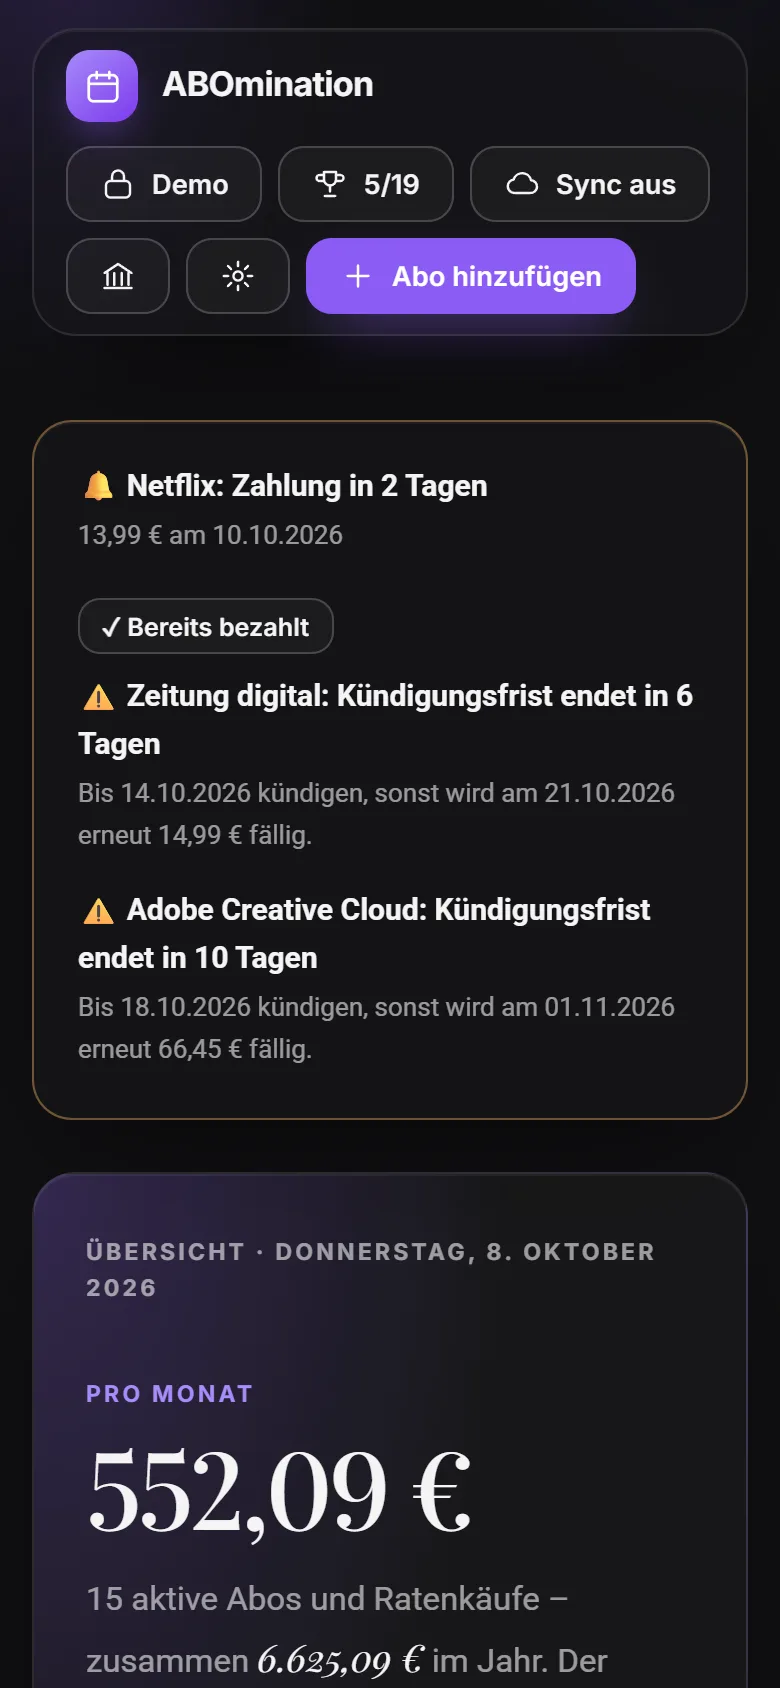
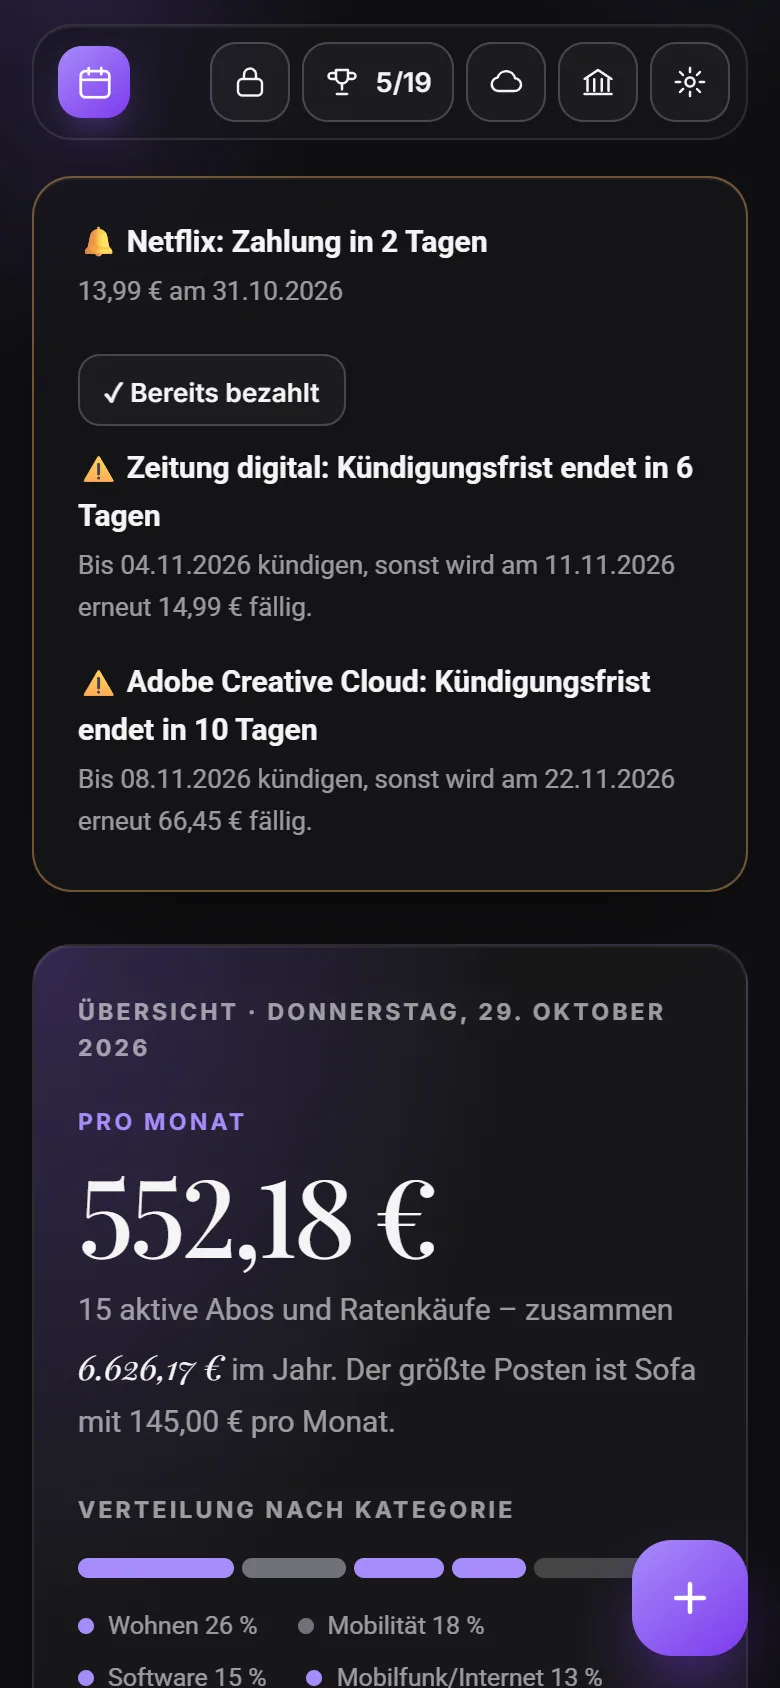
Version 0.5.1: Optimierte Handy-Ansicht
ABOmination ist auf dem Smartphone jetzt deutlich angenehmer zu bedienen:

- Schlanke Kopfzeile mit Symbol-Knöpfen; „Abo hinzufügen“ als schwebender Knopf unten rechts
- „Alle Abos“ als übersichtliche Karten statt einer abgeschnittenen Tabelle – Bearbeiten und Löschen sind immer erreichbar
- Dialoge öffnen als Blatt von unten; Titel und Speichern-Knopf bleiben beim Scrollen sichtbar
- Gehaltsrechner: Netto und „Übrig“ stehen beim Ausfüllen immer unten im Blick
- Kompaktere Kacheln, Zahlungsliste zunächst mit 5 Einträgen, Spartipps und Ratenkauf-Kennzahlen besser lesbar
- Größere Tippflächen; kein automatisches Hineinzoomen in Eingabefelder auf dem iPhone

diff --git a/web/src/styles.css b/web/src/styles.css
@@ -267,7 +267,7 @@ input[readonly]{opacity:.75;cursor:default}
 .t-inst{grid-column:span 12}
 .t-salary{grid-column:span 12}
 @media (max-width:1000px){
-  .t-hero,.t-cats,.t-accts,.t-opt,.t-ach{grid-column:span 12;grid-row:auto}
+  .t-hero,.t-hero.tall,.t-cats,.t-accts,.t-opt,.t-ach{grid-column:span 12;grid-row:auto}
   .t-year,.t-30,.t-open{grid-column:span 6}
   .t-hero{min-height:0}
 }
@@ -420,3 +420,112 @@ form.sal label.check{flex-direction:row;align-items:center;gap:8px;color:var(--t
 @media (max-width:1000px){.sal-kpis{grid-template-columns:repeat(2,minmax(0,1fr))}}
 @media (max-width:760px){.sal-grid{grid-template-columns:1fr}.sal-out{position:static}}
 @media (max-width:480px){.sal-row{grid-template-columns:1fr}}
+
+/* ============ Handy-Ansicht (bis 640 px) ============ */
+.fab,.up-toggle,.sal-sum{display:none}
+@media (max-width:640px){
+  /* Kopfzeile: eine schlanke Zeile mit Symbol-Knöpfen; „Abo hinzufügen“ wird zum schwebenden Knopf */
+  .nav{top:8px;gap:8px;padding:8px 8px 8px 12px;margin-bottom:18px;border-radius:20px;flex-wrap:nowrap}
+  .nav .actions{flex-wrap:nowrap;gap:6px}
+  .nav .btn{min-height:40px;min-width:40px;padding:8px 10px}
+  .nav .lbl-m{display:none}
+  .nav .add-desk{display:none}
+  .brand{font-size:16px;gap:10px;min-width:0}
+  .fab{display:grid;place-items:center;position:fixed;z-index:70;right:max(16px,env(safe-area-inset-right));bottom:calc(16px + env(safe-area-inset-bottom));
+    width:58px;height:58px;border-radius:20px;border:0;color:#fff;background:linear-gradient(140deg,#a78bfa,#7c3aed);cursor:pointer;
+    box-shadow:0 16px 36px -10px rgba(124,58,237,.75)}
+  .fab svg{width:24px;height:24px;stroke-width:2.2}
+  .fab:active{transform:scale(.94)}
+  .wrap{padding-bottom:calc(96px + env(safe-area-inset-bottom))}
+  .toast-wrap{bottom:calc(90px + env(safe-area-inset-bottom))}
+
+  /* Eingabefelder mit 16 px: sonst zoomt iOS beim Antippen hinein */
+  input,select,textarea{font-size:16px}
+  .btn{min-height:40px}
+  .btn.small{min-height:36px;padding:7px 12px;font-size:13px}
+  .seg{padding:7px 13px}
+  .acct-name{padding:6px 0}
+  input[type=range]{height:28px}
+
+  /* Kacheln kompakter */
+  .bento{gap:12px;margin-bottom:56px}
+  .card,.tile{padding:20px;border-radius:20px}
+  .tile-head{margin-bottom:16px;gap:10px}
+  .tile-head h2{font-size:15px}
+  .t-hero{padding:24px 22px 22px;gap:22px}
+  .t-hero .mix{margin:0}
+  .t-hero .lede{margin-bottom:0}
+  .t-hero .eyebrow[style]{margin-top:18px!important}
+  .lede{font-size:15px;margin:10px 0 0}
+  .iboxes{gap:8px}
+  .ibox{padding:10px 12px;border-radius:14px}
+  .t-year,.t-30{grid-column:span 6}
+  .t-open{grid-column:span 12}
+  .t-year,.t-30,.t-open{gap:10px}
+  .t-year .num-serif,.t-30 .num-serif,.t-open .num-serif{font-size:clamp(24px,7.4vw,34px)}
+  .t-year .ic-c,.t-30 .ic-c,.t-open .ic-c{display:none}
+  .t-salary .tile-head .sub{display:none}
+  .t-salary .tile-head .btn{margin-left:auto}
+  .sal-kpis{gap:14px 18px}
+  .sal-kpis .num-serif{font-size:clamp(22px,6.6vw,30px);margin-top:6px}
+  .sal-bar{margin:18px 0 12px}
+
+  /* Zahlungsliste: erst 5, Rest per Knopf */
+  #upcoming{margin-top:16px}
+  #upcoming:not(.all) .up.more{display:none}
+  #upcoming .up:nth-child(5){border-bottom:0}
+  #upcoming.all .up:nth-child(5){border-bottom:1px solid var(--line)}
+  .up-toggle{display:inline-flex;margin-top:10px;grid-column:1/-1;justify-self:start}
+
+  /* Spartipps: Ersparnis unter den Text statt daneben */
+  .tip{flex-direction:column;gap:4px;padding:14px 0}
+
+  /* Liste „Alle Abos“ als Karten statt Tabelle */
+  .section-head .h-display{margin-bottom:18px}
+  .table-card{padding:16px 18px}
+  .toolbar{display:grid;grid-template-columns:1fr 1fr;gap:8px}
+  .toolbar input{grid-column:1/-1;min-width:0;width:100%}
+  .toolbar select{width:100%;min-width:0}
+  .table-card thead{display:none}
+  #rows tr{display:grid;grid-template-columns:minmax(0,1fr) auto;grid-template-areas:"name price" "next actions";gap:8px 12px;padding:14px 0;border-bottom:1px solid var(--line)}
+  #rows tr:last-child{border-bottom:0}
+  #rows td{display:block;padding:0;border:0}
+  #rows td.hide-m{display:none}
+  #rows td:nth-child(1){grid-area:name;min-width:0}
+  #rows td:nth-child(2){grid-area:price;text-align:right}
+  #rows td:nth-child(4){grid-area:next;align-self:end;font-size:14px}
+  #rows td:nth-child(6){grid-area:actions;align-self:end}
+  #rows .prog{max-width:none}
+
+  /* Dialoge als Blatt von unten, Kopf und Fußzeile bleiben beim Scrollen sichtbar */
+  dialog,dialog.wide,#dlgSalary{width:100%;max-width:100%;max-height:calc(100dvh - 24px);margin:auto 0 0;border-radius:24px 24px 0 0;
+    border-bottom:0;background:var(--card);-webkit-backdrop-filter:none;backdrop-filter:none}
+  dialog[open]{animation:sheetIn .35s var(--ease-out)}
+  form.f,.box,form.sal{padding:20px 18px calc(16px + env(safe-area-inset-bottom))}
+  form.f{gap:12px}
+  form.f h2{position:sticky;top:-20px;z-index:2;background:var(--card);margin:-20px -18px 0;padding:20px 18px 10px}
+  .box .dhead,form.sal .dhead{position:sticky;top:-20px;z-index:2;background:var(--card);margin:-20px -18px 8px;padding:16px 18px 10px;border-bottom:1px solid var(--line)}
+  form.f .foot,form.sal .foot{position:sticky;bottom:calc(-16px - env(safe-area-inset-bottom));z-index:2;background:var(--card);
+    margin:4px -18px calc(-16px - env(safe-area-inset-bottom));padding:12px 18px calc(12px + env(safe-area-inset-bottom));border-top:1px solid var(--line)}
+  form.f .foot .btn,form.sal .foot .btn{flex:1}
+  .sal-sum{display:flex;flex-direction:column;justify-content:center;font-size:12.5px;color:var(--muted);line-height:1.35;flex:1.4;min-width:0}
+  .sal-sum b{color:var(--text);font-family:var(--f-head)}
+  .sal-sum:empty{display:none}
+  .sal-out{padding:14px}
+  .sal-out{padding:12px 12px 12px 14px}
+  .sal-tab th,.sal-tab td{font-size:12.5px}
+  .sal-tab td{padding-left:8px}
+  .sal-tab .sub th{padding-left:6px}
+  .sal-tab small{font-size:11px;display:block}
+  .sal-tab th{hyphens:auto;overflow-wrap:anywhere}
+  .sal-tab tr.net th,.sal-tab tr.net td{font-size:14px}
+  /* Ratenkäufe: Kennzahlen zweispaltig */
+  .inst-sum{justify-content:center}
+  .inst-stats{grid-template-columns:1fr 1fr;min-width:0;flex-basis:100%;gap:12px 14px}
+  .inst-stats .val{font-size:16px}
+  .ach-grid{grid-template-columns:1fr}
+}
+@keyframes sheetIn{from{transform:translateY(40px);opacity:.4}to{transform:none;opacity:1}}
+@media (max-width:420px){
+  .brand-txt{display:none}
+}

diff --git a/web/src/app.js b/web/src/app.js
@@ -224,9 +224,12 @@ function render() {
     <div class="bar-track"><div class="bar-fill" style="width:${(v / max * 100).toFixed(1)}%;background:${catColor(c)}"></div></div>
     <span class="amt">${mb(v)}</span></div>`).join("") : `<div class="muted">Keine Daten.</div>`;
 
-  $("#upcoming").innerHTML = soon.length ? soon.map(s => `
-    <div class="up"><div><div class="name">${esc(s.name)}</div><div class="muted" style="font-size:13px">${fmtDate(s.next)} · ${whenText(s.inDays)}</div></div>
-    <div style="font-variant-numeric:tabular-nums;font-family:var(--f-head);font-weight:700">${money(s.due, s.currency)}</div></div>`).join("") : `<div class="muted">Keine Zahlungen in den nächsten 30 Tagen.</div>`;
+  const UP_SHORT = 5;
+  $("#upcoming").innerHTML = soon.length ? soon.map((s, i) => `
+    <div class="up${i >= UP_SHORT ? " more" : ""}"><div><div class="name">${esc(s.name)}</div><div class="muted" style="font-size:13px">${fmtDate(s.next)} · ${whenText(s.inDays)}</div></div>
+    <div style="font-variant-numeric:tabular-nums;font-family:var(--f-head);font-weight:700">${money(s.due, s.currency)}</div></div>`).join("")
+    + (soon.length > UP_SHORT ? `<button class="btn small up-toggle" type="button">Alle ${soon.length} Zahlungen anzeigen</button>` : "")
+    : `<div class="muted">Keine Zahlungen in den nächsten 30 Tagen.</div>`;
   renderTimeline(soon);
 
   const cats = [...new Set(subs.map(catName))].sort((a, b) => a.localeCompare(b, "de"));
@@ -505,6 +508,11 @@ function renderSalary(perMonth) {
     <div class="mix-leg">${parts.map(([c, l, v]) => `<span><i class="${c}"></i>${esc(l)} ${esc(eur(v))}</span>`).join("")}</div>
     ${settings.base !== "EUR" ? `<p class="muted small" style="margin-bottom:0">Gehalt in Euro; Abos aus ${esc(settings.base)} umgerechnet.</p>` : ""}`;
 }
+$("#upcoming").addEventListener("click", e => {
+  const b = e.target.closest(".up-toggle"); if (!b) return;
+  const all = $("#upcoming").classList.toggle("all");
+  b.textContent = all ? "Weniger anzeigen" : `Alle ${$("#upcoming").querySelectorAll(".up").length} Zahlungen anzeigen`;
+});
 $("#tSalary").addEventListener("click", e => { if (e.target.closest("[data-salary]")) openSalary(); });
 
 const dlgSal = $("#dlgSalary"), salForm = $("#salForm"), se = salForm.elements;
@@ -540,8 +548,10 @@ function syncSalForm() {
 // Ergebnis wie bei BruNo: Monat und Jahr nebeneinander, darunter die Fixkosten aus den Abos
 function renderSalOut(v) {
   const out = $("#salOut");
-  if (!(v.gross > 0)) { out.innerHTML = `<p class="muted small" style="margin:0">Gib dein Bruttogehalt ein – das Ergebnis erscheint sofort hier.</p>`; return; }
+  const sum = $("#salSum");
+  if (!(v.gross > 0)) { out.innerHTML = `<p class="muted small" style="margin:0">Gib dein Bruttogehalt ein – das Ergebnis erscheint sofort hier.</p>`; sum.textContent = ""; return; }
   const r = calcSalary(v), m = r.month, y = r.year, fix = fixedMonthlyEur(), left = leftover(m.net, fix).left;
+  sum.innerHTML = `<span>Netto <b>${eur(m.net)}</b></span><span>Übrig <b>${eur(left)}</b></span>`;
   const row = (label, k, cls = "") => `<tr class="${cls}"><th>${label}</th><td>${eur(m[k])}</td><td>${eur(y[k])}</td></tr>`;
   const rate = x => (x ? ` <small>${pctFmt(x)}</small>` : "");
   const pkv = v.kv === "pkv";
@@ -746,7 +756,7 @@ form.addEventListener("submit", e => {
   save(); dlg.close(); render(); maybeRefreshRates();
 });
 $("#btnCancel").onclick = () => dlg.close();
-$("#btnAdd").onclick = () => openDlg();
+$("#btnAdd").onclick = $("#btnAddFab").onclick = () => openDlg();
 const curOptions = CURRENCIES.map(c => `<option>${c}</option>`).join("");
 form.elements.currency.innerHTML = curOptions;
 $("#setBase").innerHTML = curOptions;
@@ -1176,14 +1186,16 @@ const SRV_STATUS = { ok: ["Synchronisiert", "ok"], saving: ["Speichert …", ""]
 function renderServerSync() {
   const st = Vault.store, [label, cls] = SRV_STATUS[st.status] || SRV_STATUS.ok, b = $("#btnSync");
   b.hidden = false; b.className = "btn pill " + cls;
-  b.innerHTML = `<span class="ic">${ICON.cloud}</span><span>${label}</span>`;
+  b.innerHTML = `<span class="ic">${ICON.cloud}</span><span class="lbl-m">${label}</span>`;
+  b.setAttribute("aria-label", label);
   b.title = st.message || (st.status === "ok" ? "Mit dem Server abgeglichen. Klicken = jetzt abgleichen." : "");
 }
 function renderSync() {
   if (Vault.mode === "server") return renderServerSync();
   const L = { off: ["☁ Sync aus", ""], ok: ["☁ Sync aktiv", "ok"], "needs-permission": ["☁ Sync fortsetzen", "warn"], error: ["☁ Sync-Fehler", "err"] }[syncState];
   const b = $("#btnSync");
-  b.hidden = false; b.innerHTML = `<span class="ic">${ICON.cloud}</span><span>${L[0].replace("☁ ", "")}</span>`; b.className = "btn pill " + L[1];
+  b.hidden = false; b.innerHTML = `<span class="ic">${ICON.cloud}</span><span class="lbl-m">${L[0].replace("☁ ", "")}</span>`; b.className = "btn pill " + L[1];
+  b.setAttribute("aria-label", L[0].replace("☁ ", ""));
   renderSyncPanel();
 }
 function syncForm(sel) {

diff --git a/web/index.html b/web/index.html
@@ -2,7 +2,7 @@
 <html lang="de">
 <head>
 <meta charset="utf-8">
-<meta name="viewport" content="width=device-width, initial-scale=1">
+<meta name="viewport" content="width=device-width, initial-scale=1, viewport-fit=cover">
 <title>ABOmination</title>
 <meta name="description" content="Abos und Ratenzahlungen im Blick – Ende-zu-Ende-verschlüsselt.">
 <meta name="theme-color" content="#f4f4f5" media="(prefers-color-scheme: light)">
@@ -22,14 +22,14 @@
 <div id="auth" hidden></div>
 <div class="wrap">
   <header class="nav">
-    <h1 class="brand"><span class="brand-mark" data-ic="calendar"></span>ABOmination</h1>
+    <h1 class="brand"><span class="brand-mark" data-ic="calendar"></span><span class="brand-txt">ABOmination</span></h1>
     <div class="actions">
-      <button class="btn" id="btnLock" title="Sperren und abmelden"><span class="ic" data-ic="lock"></span><span id="userName"></span></button>
+      <button class="btn" id="btnLock" title="Sperren und abmelden"><span class="ic" data-ic="lock"></span><span id="userName" class="lbl-m"></span></button>
       <button class="btn" id="btnAch" title="Errungenschaften"><span class="ic" data-ic="trophy"></span><span id="achCount"></span></button>
       <button class="btn pill" id="btnSync" hidden></button>
       <button class="btn" id="btnBank"><span class="ic" data-ic="bank"></span><span class="lbl">Kontoauszug importieren</span></button>
       <button class="btn" id="btnSettings"><span class="ic" data-ic="gear"></span><span class="lbl">Einstellungen</span></button>
-      <button class="btn primary" id="btnAdd"><span class="ic" data-ic="plus"></span>Abo hinzufügen</button>
+      <button class="btn primary add-desk" id="btnAdd"><span class="ic" data-ic="plus"></span>Abo hinzufügen</button>
     </div>
   </header>
 
@@ -110,6 +110,7 @@
       <div class="empty" id="empty" hidden>Noch keine Abos. Klicke auf „Abo hinzufügen“ oder importiere einen Kontoauszug.</div>
     </div>
   </section>
+  <button class="fab" id="btnAddFab" aria-label="Abo hinzufügen" title="Abo hinzufügen"><span class="ic" data-ic="plus"></span></button>
   <p class="muted small foot-note local-only">Alle Daten werden lokal in diesem Browser gespeichert. Für Sicherung und Geräte-Sync: Einstellungen.</p>
   <p class="muted small foot-note srv-only">Deine Daten werden verschlüsselt mit dem Server abgeglichen und stehen auf all deinen Geräten bereit.</p>
 </div>
@@ -322,6 +323,7 @@
     </div>
     <p class="muted small">Lohnsteuer und Solidaritätszuschlag nach dem amtlichen Programmablaufplan des BMF für 2026 (wie der BMF-Lohnsteuerrechner), Sozialabgaben mit den Sätzen und Beitragsbemessungsgrenzen 2026. Ohne Gewähr – maßgeblich ist deine Lohnabrechnung. Die Angaben werden verschlüsselt mit deinen Abos gespeichert.</p>
     <div class="foot">
+      <div class="sal-sum" id="salSum" aria-hidden="true"></div>
       <button type="button" class="btn danger" id="salRemove">Entfernen</button>
       <button type="submit" class="btn primary">Speichern</button>
     </div>

diff --git a/DEPLOYMENT.de.md b/DEPLOYMENT.de.md
@@ -28,7 +28,7 @@ docker compose ps                             # Status sollte nach ~10 s "health
 curl -s http://127.0.0.1:8080/api/health      # {"ok":true,...}
 ```
 
-Eine feste Version statt `latest`: in `.env` z. B. `ABO_VERSION=0.5.0` eintragen.
+Eine feste Version statt `latest`: in `.env` z. B. `ABO_VERSION=0.5.1` eintragen.
 
 ### Variante B: selbst bauen
 

diff --git a/DEPLOYMENT.md b/DEPLOYMENT.md
@@ -30,7 +30,7 @@ docker compose ps                             # should be "healthy" after ~10 s
 curl -s http://127.0.0.1:8080/api/health      # {"ok":true,...}
 ```
 
-To pin a version instead of `latest`, set e.g. `ABO_VERSION=0.5.0` in `.env`.
+To pin a version instead of `latest`, set e.g. `ABO_VERSION=0.5.1` in `.env`.
 
 ### Option B: build it yourself
 
